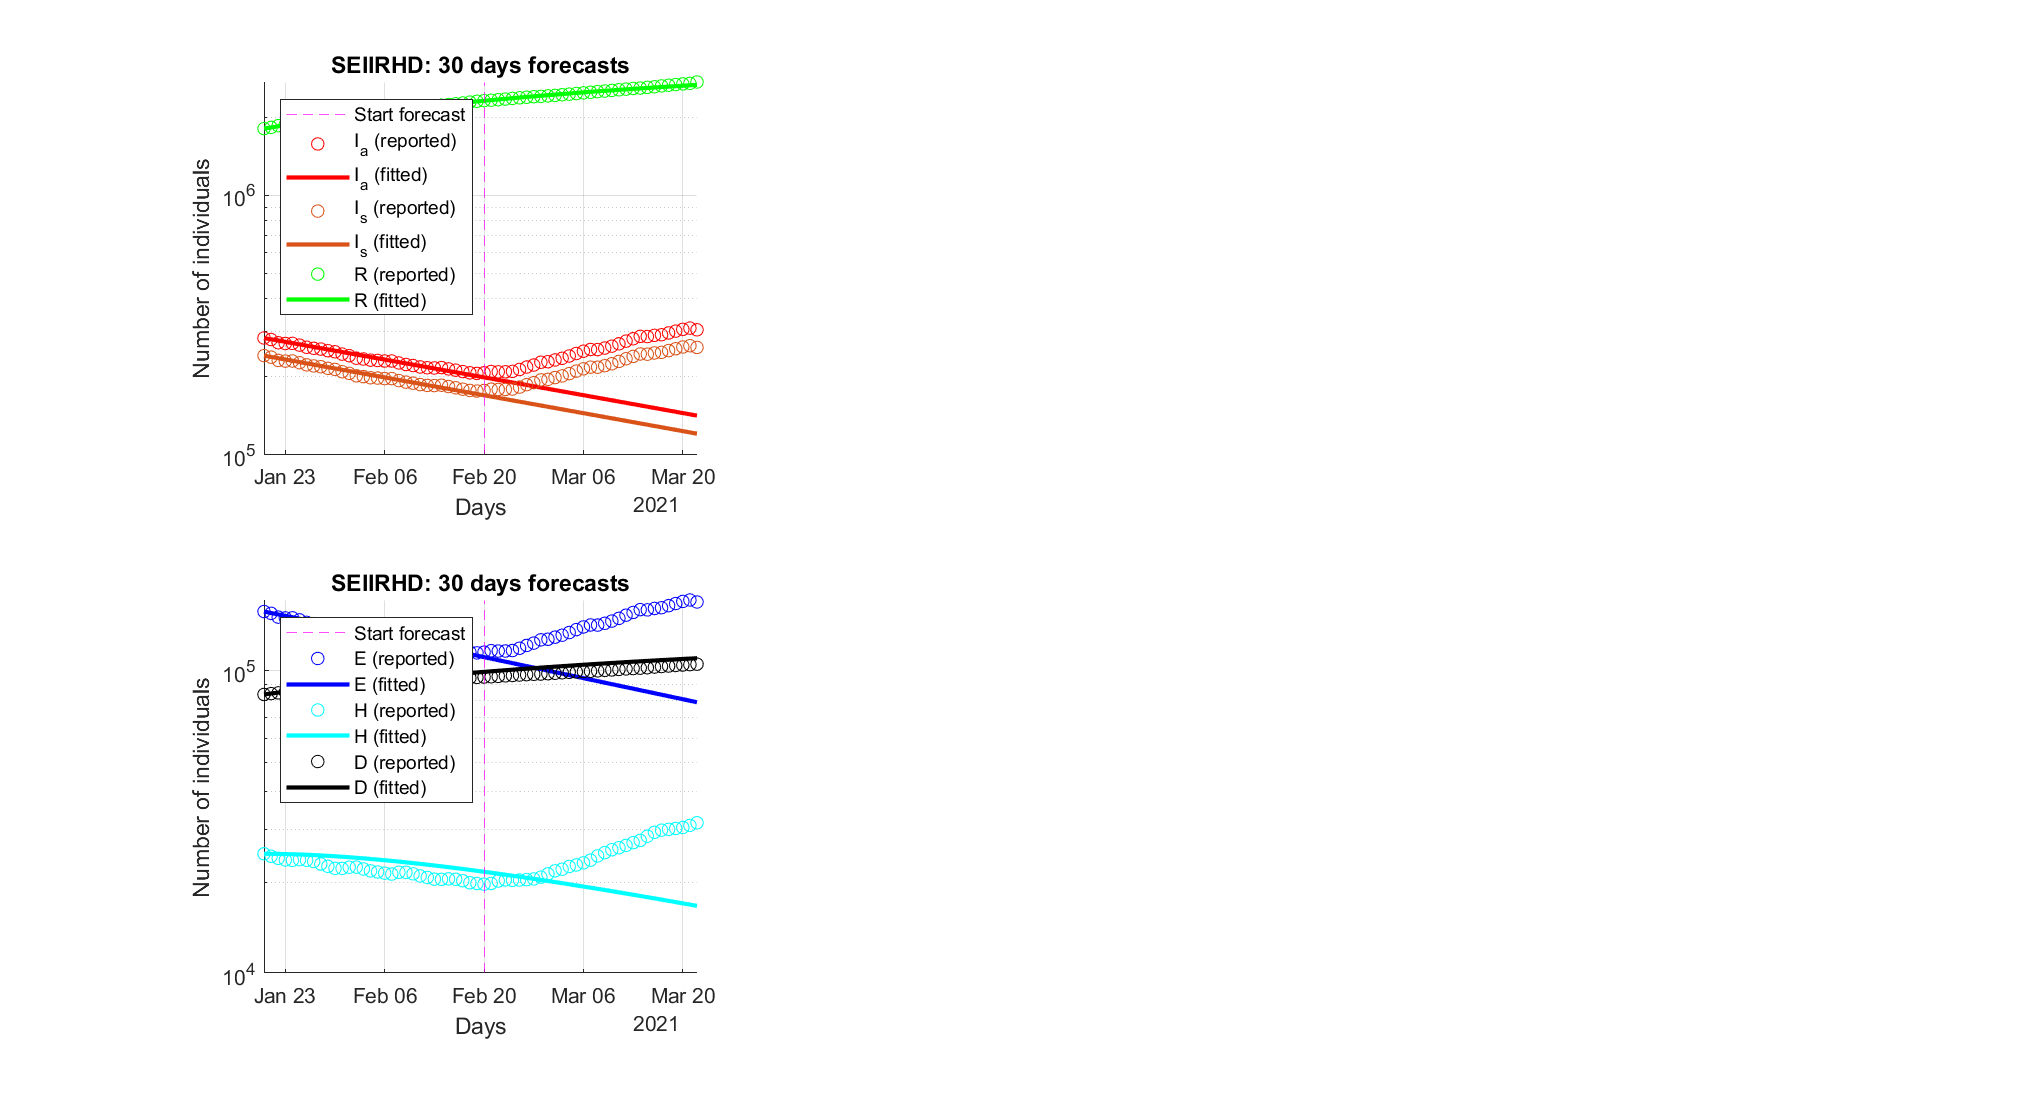
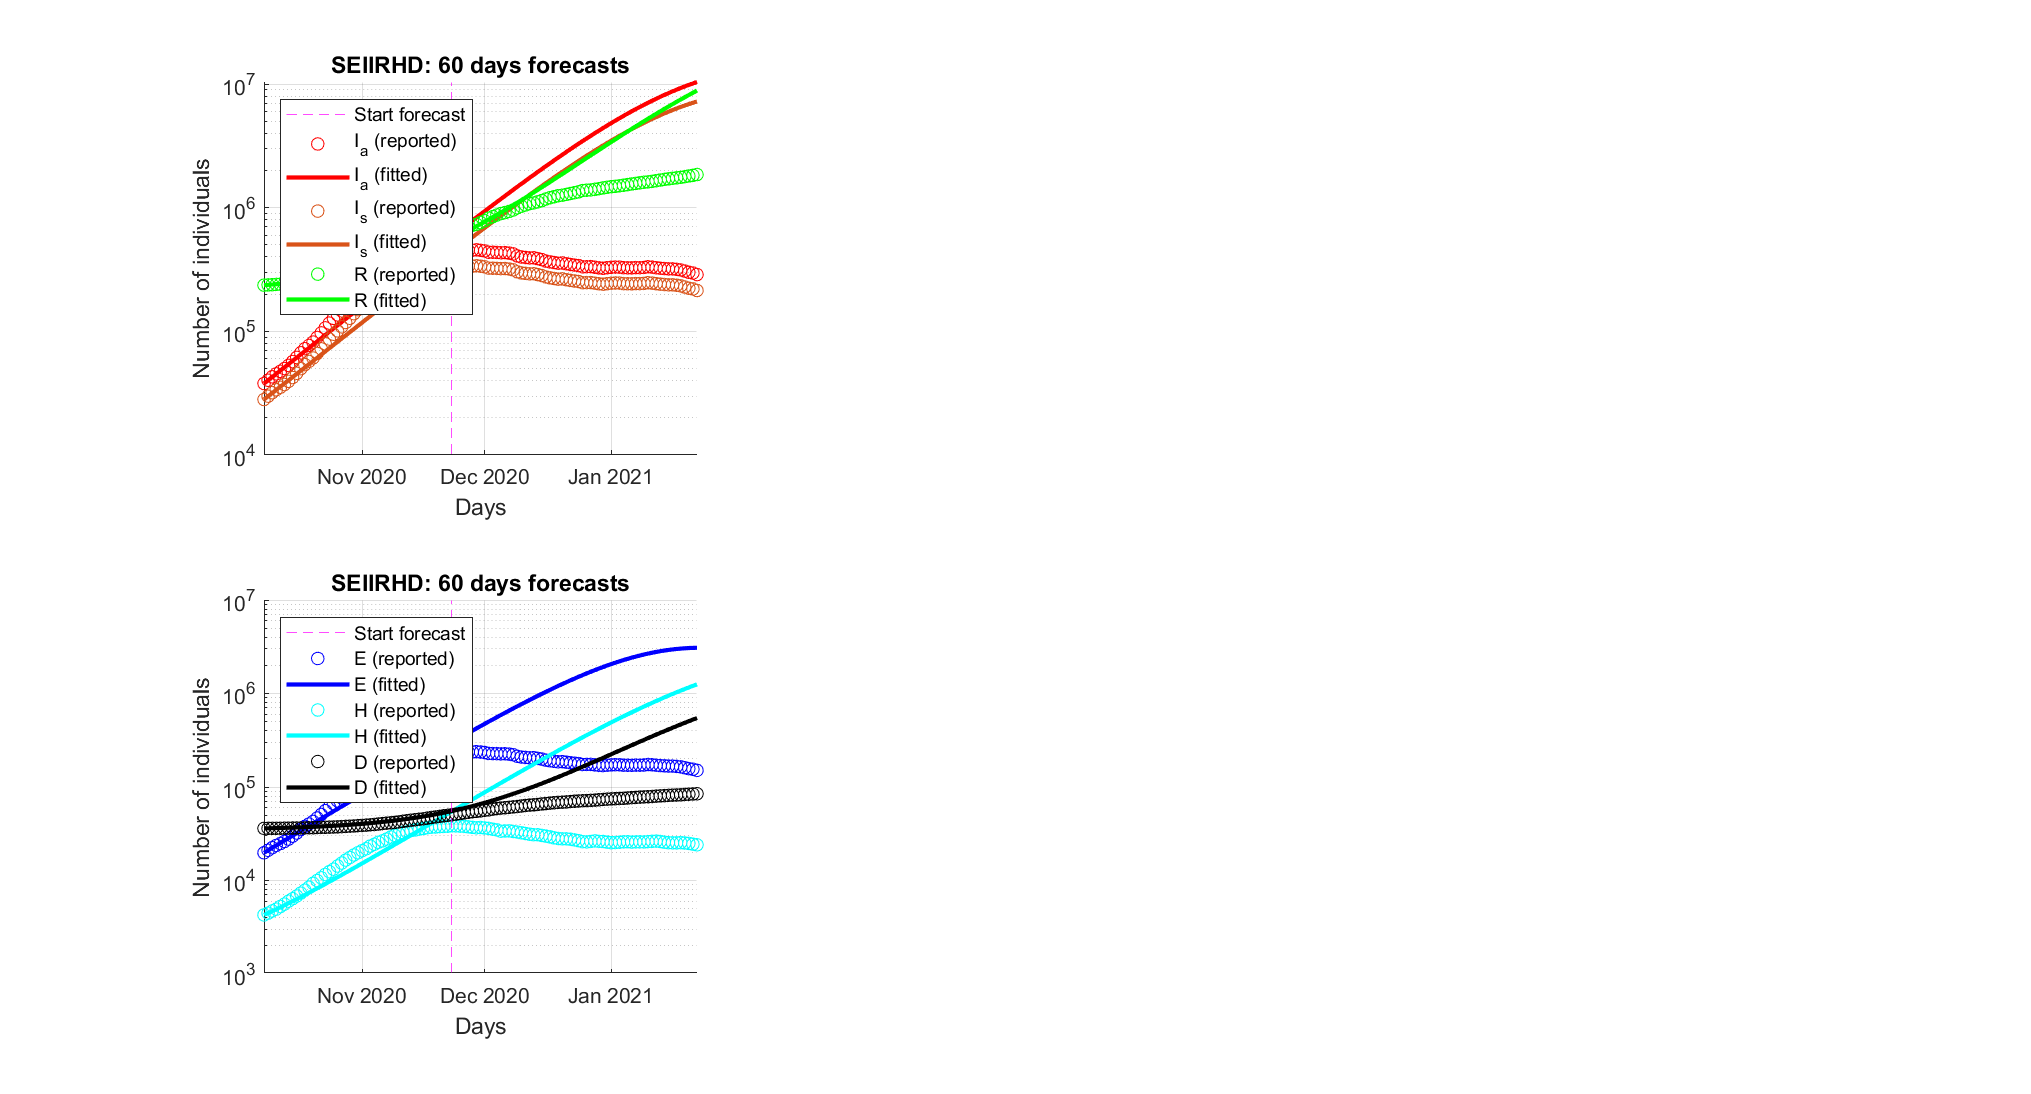
Update errors

diff --git a/models/SEIIRHD/forecast_SEIIRHD.m b/models/SEIIRHD/forecast_SEIIRHD.m
@@ -1,13 +1,20 @@
-function forecast_SEIIRHD(timeV, X1, dates, path)
+function forecast_SEIIRHD(timeV, X1, dates, Xreal, t0, tf, path)
 
 % Input 
 % timeV   time vector used as x-axis
 % X1      vector containg the ODE solution 
-% dates   tove vector with all the dates
+% dates   vector with all the dates
+% Xreal   real data
+% t0      start real data      
+% tf      end real data
 % path    path for saving the plot obtained
 
 % Output
 %         Void function
+
+I_a_real = Xreal(:, 1);
+I_s_real = Xreal(:, 2);
+D_real = Xreal(:, 3);
 
 I_a1 = X1(:, 3);
 I_s1 = X1(:, 4);
@@ -36,12 +43,10 @@ t7 = find(dates=="01-Dec-2022");
 I = I_a1+I_s1 * 10^7;
 fprintf("June 2021: \n");
 fprintf("I: %f\n",I(t1));
-fprintf("H: %f\n",H1(t1));
 fprintf("D: %f\n",D1(t1));
 
 fprintf("September 2021: \n");
 fprintf("I: %f\n",I(t2));
-fprintf("H: %f\n",H1(t2));
 fprintf("D: %f\n",D1(t2));
 
 fprintf("December 2021: \n");
@@ -51,22 +56,18 @@ fprintf("D: %f\n",D1(t3));
 
 fprintf("March 2022: \n");
 fprintf("I: %f\n",I(t4));
-fprintf("H: %f\n",H1(t4));
 fprintf("D: %f\n",D1(t4));
 
 fprintf("June 2022: \n");
 fprintf("I: %f\n",I(t5));
-fprintf("H: %f\n",H1(t5));
 fprintf("D: %f\n",D1(t5));
 
 fprintf("September 2022: \n");
 fprintf("I: %f\n",I(t6));
-fprintf("H: %f\n",H1(t6));
 fprintf("D: %f\n",D1(t6));
 
 fprintf("December 2022: \n");
 fprintf("I: %f\n",I(t7));
-fprintf("H: %f\n",H1(t7));
 fprintf("D: %f\n",D1(t7));
 
 x0=100;
@@ -77,22 +78,31 @@ set(gcf,'position',[x0,y0,width,height]);
 
 % I_a PLOT
 subplot(2,1,1);
-plot(timeV,I_a1,'r-', 'Linewidth', 1.5);hold on
-plot(timeV,I_s1,'Color', '#D95319', 'Linewidth', 1.5);
+xline(dates(tf),'--', 'Color', [17 17 17]/255);hold on;
+plot(dates(t0:tf),I_a_real(t0:tf),'r', 'LineWidth',1.5);hold on;
+plot(timeV,I_a1,'r:', 'Linewidth', 1.5);hold on
+plot(dates(t0:tf),I_s_real(t0:tf),'Color', '#D95319', 'LineWidth',1.5);hold on;
+plot(timeV,I_s1,':', 'Color', '#D95319', 'Linewidth', 1.5);
 xlabel('Days');ylabel('Number of individuals');
-legend('I_a (forecast)', 'I_s (forecast)', ...
+legend('Start forecast',...
+    'I_a (reported)', 'I_a (forecast)', ...
+    'I_s (reported)', 'I_s (forecast)', ...
     'Location', 'northeast');
-set(gca,'XLim',[timeV(1), timeV(501)]);
+set(gca,'XLim',[dates(t0), timeV(501)]);
 title(sprintf('SEIIRHD model forecast'));
 
 % H PLOT
 subplot(2,1,2);
-plot(timeV,H1,'c-', 'Linewidth', 1.5);hold on
-plot(timeV,D1,'k-', 'Linewidth', 1.5);
+%plot(timeV,H1,'c-', 'Linewidth', 1.5);hold on
+xline(dates(tf),'--', 'Color', [17 17 17]/255);hold on;
+plot(dates(t0:tf),D_real(t0:tf),'-', 'Color', [17 17 17]/255, 'LineWidth',1.5);hold on;
+plot(timeV,D1,'k:', 'Linewidth', 1.5);
 xlabel('Days');ylabel('Number of individuals');
-legend('H (forecast)','D (forecast)',...
+legend('Start forecast',...
+    'D (reported)',...
+    'D (forecast)',...
     'Location', 'northeast');
-set(gca,'XLim',[timeV(1), timeV(501)]);
+set(gca,'XLim',[dates(t0), timeV(501)]);
 title(sprintf('SEIIRHD model forecast'));
 
 saveas(gcf,path)

diff --git a/models/SEIIRHD/compute_errors.m b/models/SEIIRHD/compute_errors.m
@@ -1,57 +1,63 @@
-function compute_errors(E, I_s, H, R, D, X)
+function compute_errors(I_s, H, R, D, Is_pred, H_pred, R_pred, D_pred)
 
 % Input 
-% E       E actual
-% I_s     I_s actual
-% H       H actual
-% R       R actual
-% D       D actual
-% X       prediction vector
+% I_s       I_s actual
+% H         H actual
+% R         R actual
+% D         D actual
+% I_s_pred  I_s predicted
+% H_pred    H predicted
+% R_pred    R predicted
+% D_pred    D predicted
 
 % Output
 %         Void function
 
-E_pred = X(:, 2); 
-Ia_pred = X(:, 3);
-Is_pred = X(:, 4);
-H_pred = X(:, 5);
-R_pred = X(:, 6);
-D_pred = X(:, 7);
 
-MAE_Is = mean(abs((I_s)-Is_pred));
-MAE_H = mean(abs((H)-H_pred));
-MAE_R = mean(abs((R)-R_pred));
-MAE_D = mean(abs((D)-D_pred));
+MAE_Is = mean(abs(I_s-Is_pred));
+MAE_H = mean(abs(H-H_pred));
+MAE_R = mean(abs(R-R_pred));
+MAE_D = mean(abs(D-D_pred));
 fprintf("--------------MAE-----------------\n");
 fprintf("MAE Is: %f \n", MAE_Is);
 fprintf("MAE H: %f \n", MAE_H);
 fprintf("MAE R: %f \n", MAE_R);
 fprintf("MAE D: %f \n", MAE_D);
 
-RMSE_Is = sqrt(mean(((I_s)-Is_pred).^2));
-RMSE_H = sqrt(mean(((H)-H_pred).^2));
-RMSE_R = sqrt(mean(((R)-R_pred).^2));
-RMSE_D = sqrt(mean(((D)-D_pred).^2));
+RMSE_Is = sqrt(mean((I_s-Is_pred).^2));
+RMSE_H = sqrt(mean((H-H_pred).^2));
+RMSE_R = sqrt(mean((R-R_pred).^2));
+RMSE_D = sqrt(mean((D-D_pred).^2));
 fprintf("--------------RMSE-----------------\n");
 fprintf("RMSE Is: %f \n", RMSE_Is);
 fprintf("RMSE H: %f \n", RMSE_H);
 fprintf("RMSE R: %f \n", RMSE_R);
 fprintf("RMSE D: %f \n", RMSE_D);
 
-TSS_Is = sum(((I_s)-mean(I_s).^2));
-TSS_H = sum(((H)-mean(H).^2));
-TSS_R = sum(((R)-mean(R).^2));
-TSS_D = sum(((D)-mean(D).^2));
+% TSS_Is = sum((I_s-mean(I_s)).^2);
+% TSS_H = sum((H-mean(H)).^2);
+% TSS_R = sum((R-mean(R)).^2);
+% TSS_D = sum((D-mean(D)).^2);
+% 
+% RSS_Is = sum((I_s-Is_pred).^2);
+% RSS_H = sum((H-H_pred).^2);
+% RSS_R = sum((R-R_pred).^2);
+% RSS_D = sum((D-D_pred).^2);
+% 
+% R2_Is = 1 - RSS_Is/TSS_Is;
+% R2_H = 1 - RSS_H/TSS_H;
+% R2_R = 1 - RSS_R/TSS_R;
+% R2_D = 1 - RSS_D/TSS_D;
 
-RSS_Is = sum(((I_s)-(Is_pred).^2));
-RSS_H = sum(((H)-(H_pred).^2));
-RSS_R = sum(((R)-(R_pred).^2));
-RSS_D = sum(((D)-(D_pred).^2));
 
-R2_Is = 1 - TSS_Is/RSS_Is;
-R2_H = 1 - TSS_H/RSS_H;
-R2_R = 1 - TSS_R/RSS_R;
-R2_D = 1 - TSS_D/RSS_D;
+R_Is = corrcoef(I_s, Is_pred);
+R2_Is = R_Is(1,2);
+R_H = corrcoef(H, H_pred);
+R2_H = R_H(1,2);
+R_R = corrcoef(R, R_pred);
+R2_R = R_R(1,2);
+R_D = corrcoef(D, D_pred);
+R2_D = R_D(1,2);
 
 fprintf("--------------R2-----------------\n");
 fprintf("R2 Is: %f \n", R2_Is);

diff --git a/models/SEIIRHD/plot_SEIIRHD.m b/models/SEIIRHD/plot_SEIIRHD.m
@@ -33,8 +33,11 @@ for i = 1:size(tp, 2)
     D_pred = X(:, 7);
     len_train = tf-t0;
     
-    compute_errors(E(tf:tf+tp(i)), I_s(tf:tf+tp(i)), H(tf:tf+tp(i)),...
-    R(tf:tf+tp(i)), D(tf:tf+tp(i)), X(len_train:len_train+tp(i))*N)
+    
+    compute_errors(I_s(tf:tf+tp(i)), H(tf:tf+tp(i)),...
+    R(tf:tf+tp(i)), D(tf:tf+tp(i)), N*Is_pred(len_train:len_train+tp(i)), ...
+    N*H_pred(len_train:len_train+tp(i)), N*R_pred(len_train:len_train+tp(i)), ...
+    N*D_pred(len_train:len_train+tp(i)));
 
     x0=100;
     y0=100;

diff --git a/experiments/simulations/ITAMarchForecast.m b/experiments/simulations/ITAMarchForecast.m
@@ -41,8 +41,11 @@ I_s = f*I;
 I_a0 = I_a(t0);
 I_s0 = I_s(t0);
 X0= [S0 E0 I_a0 I_s0 H0 R0 D0];
+Xreal = [I_a I_s D];
 
 [t,x] = ode23s(@(t,x) SEIIRHD(t,x, p), timeV, X0);  
 %%
+tini = find(dates=="30-Mar-2020"); 
 forecast_SEIIRHD(dates(timeV), x, dates,...
+    Xreal, tini, t0, ...
     "./results/simulations/ITA/SEIIRHDMarchForecast.png")
